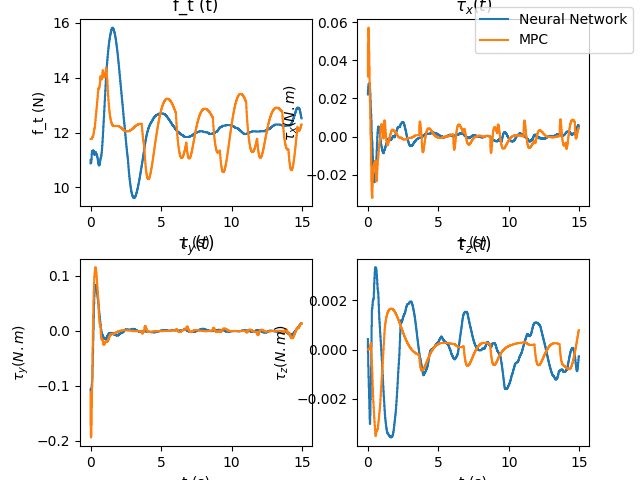
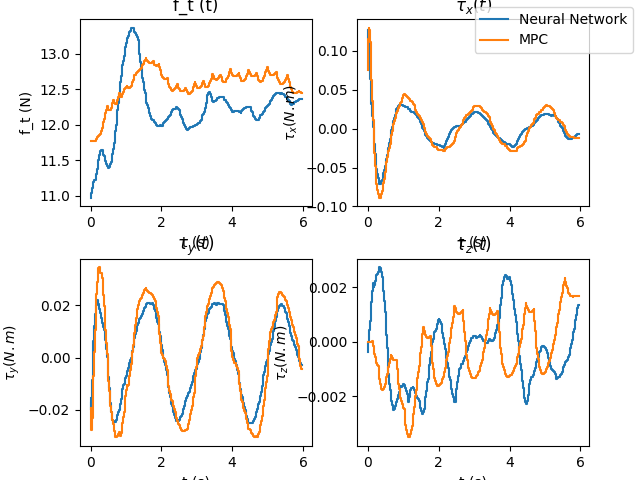
able to simulate batch of trajectories and also implemented stats tables and histogram plotting functions

diff --git a/6dof_quadrotor/simulate_both.py b/6dof_quadrotor/simulate_both.py
@@ -11,7 +11,7 @@ from simulate_mpc import simulate_mpc, wrap_metadata
 import time
 from pathlib import Path
 
-use_optuna_model = True
+#use_optuna_model = True
 
 ### MULTIROTOR PARAMETERS ###
 from parameters.octorotor_parameters import m, g, I_x, I_y, I_z, l, b, d, num_rotors, thrust_to_weight
@@ -27,17 +27,17 @@ num_neurons_hidden_layers = 128 # TODO: AUTOMATIZAR!!!!!!!!!!!!!!!!!!!!!!!!!!!!!
 from parameters.simulation_parameters import time_step, T_sample, N, M, gain_scheduling, include_phi_theta_reference, include_psi_reference
 q_neuralnetwork = 3 # Number of MPC outputs (x, y z)
 num_inputs = 205 - num_rotors # TODO: AUTOMATIZAR!!!!!!!!!!!!!!!!!!!!!!!!!!!!!!!!!!!!!!!!!!!!!!!!!!!!!!!!!!!!!!!!!!!!!
-T_simulation = 15 # Total simulation time
-t_samples = np.arange(0,T_simulation, T_sample)
-t_samples_extended = np.arange(0,2*T_simulation, T_sample)
+#T_simulation = 30 #Total simulation time
+#t_samples = np.arange(0,T_simulation, T_sample)
+#t_samples_extended = np.arange(0,2*T_simulation, T_sample)
 
 # Initial condition
 X0 = np.array([0,0,0,0,0,0,0,0,0,0,0,0])
 
 # Trajectory type
-trajectory_type = 'circle_xy'
-disturb_input = False
-use_optuna_model = True
+#trajectory_type = 'lissajous_xy'
+#disturb_input = False
+#use_optuna_model = True
 
 # Input and state values at the equilibrium condition
 #u_eq = [m*g, 0, 0, 0]
@@ -46,71 +46,80 @@ omega_squared_eq = omega_eq**2
 print('omega_squared_eq',omega_squared_eq)
 
 # Trajectory
-w=2*np.pi*1/10
+#w=2*np.pi*1/10
 tr = trajectory_handler.TrajectoryHandler()
 
-if trajectory_type == 'circle_xy':
-    r_tracking = tr.circle_xy(w, 5, T_simulation,include_psi_reference, include_phi_theta_reference)
+# if trajectory_type == 'circle_xy':
+#     r_tracking = tr.circle_xy(w, 5, T_simulation,include_psi_reference, include_phi_theta_reference)
 
-if trajectory_type == 'lissajous_xy':
-    r_tracking = tr.lissajous_xy(w, 2, T_simulation,include_psi_reference, include_phi_theta_reference)
+# if trajectory_type == 'lissajous_xy':
+#     r_tracking = tr.lissajous_xy(w, 2, T_simulation,include_psi_reference, include_phi_theta_reference)
 
-if trajectory_type == 'circle_xz':
-    r_tracking = tr.circle_xz(w, 5, T_simulation, include_psi_reference, include_phi_theta_reference)
+# if trajectory_type == 'circle_xz':
+#     r_tracking = tr.circle_xz(w, 5, T_simulation, include_psi_reference, include_phi_theta_reference)
 
-if trajectory_type == 'point':
-    r_tracking = tr.point(0, 0, 0, T_simulation,include_psi_reference, include_phi_theta_reference)
+# if trajectory_type == 'point':
+#     r_tracking = tr.point(0, 0, 0, T_simulation,include_psi_reference, include_phi_theta_reference)
 
-if trajectory_type == 'line':
-    r_tracking = tr.line(1, 1, -1, 20, T_simulation, include_psi_reference, include_phi_theta_reference)
+# if trajectory_type == 'line':
+#     r_tracking = tr.line(1, 1, -1, 20, T_simulation, include_psi_reference, include_phi_theta_reference)
 
-if trajectory_type == 'helicoidal':
-    r_tracking = tr.helicoidal(w,T_simulation, include_psi_reference, include_phi_theta_reference)
+#if trajectory_type == 'helicoidal':
+#    r_tracking = tr.helicoidal(w,T_simulation, include_psi_reference, include_phi_theta_reference)
 
-def simulate_mpc_nn(X0, multirotor_model, N, M, num_inputs, q_neuralnetwork, omega_squared_eq, dataset_id, dataset_mother_folder, weights_file_name, time_step, T_sample, T_simulation, trajectory, trajectory_type, restriction, restriction_metadata, output_weights, control_weights, \
+def simulate_mpc_nn(X0, multirotor_model, N, M, num_inputs, q_neuralnetwork, omega_squared_eq, dataset_mother_folder, weights_file_name, time_step, T_sample, T_simulation, trajectory, trajectory_type, restriction, restriction_metadata, output_weights, control_weights, \
                     gain_scheduling, disturb_input, num_neurons_hidden_layers, use_optuna_model):
-    #dataset_id = 1
-    #nn_weights_folder = 'training_results/Training dataset v0 - octorotor/'
-    #dataset_mother_folder = nn_weights_folder
-    #weights_file_name_mse = 'model_weights_octorotor.pth'
+    
+    global dataset_dataframe
+    global dataset_id
     t_samples = np.arange(0, T_simulation, T_sample)
     analyser = DataAnalyser()
     simulation_save_path = f'{dataset_mother_folder}comparative_simulations/{trajectory_type}/{str(dataset_id)}/'
 
     simulator = NeuralNetworkSimulator(multirotor_model, N, M, num_inputs, num_rotors, q_neuralnetwork, omega_squared_eq, time_step)
 
-    #nn_weights_folder_l1 = 'training_results/25-04-05 - Hover focused dataset N90 M10 - L1Loss/'
-    #weights_file_name_l1 = 'model_weights_L1Loss.pth'
-
     x_nn, u_nn, omega_nn, nn_metadata = simulator.simulate_neural_network(X0, dataset_mother_folder, weights_file_name, t_samples, trajectory, use_optuna_model=use_optuna_model,\
                                 num_neurons_hidden_layers=num_neurons_hidden_layers, restriction=restriction)
     
     _, mpc_metadata, simulation_data = simulate_mpc(X0, time_step, T_sample, T_simulation, trajectory, restriction, output_weights, control_weights, gain_scheduling,\
-                                disturb_input=disturb_input)
+                                disturb_input=disturb_input, plot=False)
     x_mpc, u_mpc, omega_mpc, _ = simulation_data if simulation_data is not None else [None, None, None, None]
 
-    simulation_metadata = wrap_metadata(0, trajectory_type, T_simulation, T_sample, N, M, True, mpc_metadata, restriction_metadata, disturbed_inputs=disturb_input)
+    simulation_metadata = wrap_metadata(dataset_id, trajectory_type, T_simulation, T_sample, N, M, True, mpc_metadata, restriction_metadata, disturbed_inputs=disturb_input)
     if x_nn is not None and x_mpc is not None:
         Path(simulation_save_path).mkdir(parents=True, exist_ok=True)
         for nn_key in list(nn_metadata.keys()):
             if nn_key not in list(simulation_metadata.keys()):
                 simulation_metadata[nn_key] = nn_metadata[nn_key]
-        dataset_dataframe = pd.DataFrame(simulation_metadata)
-        dataset_dataframe.to_csv(dataset_mother_folder + 'dataset_metadata.csv', sep=',')
+        dataset_dataframe = pd.concat([dataset_dataframe, pd.DataFrame(simulation_metadata)])
+        if dataset_id % 5 == 0: dataset_dataframe.to_csv(dataset_mother_folder + 'dataset_metadata.csv', sep=',', index=False)
 
         legend = ['Neural Network', 'MPC', 'Trajectory'] if x_mpc is not None else ['Neural Network', 'Trajectory']
-        analyser.plot_states(x_nn, t_samples[:np.shape(x_nn)[0]], X_lin=x_mpc, trajectory=trajectory[:len(t_samples)], u_vector=[u_nn, u_mpc], omega_vector=[omega_nn, omega_mpc], legend=legend, equal_scales=True, save_path=simulation_save_path)
+        analyser.plot_states(x_nn, t_samples[:np.shape(x_nn)[0]], X_lin=x_mpc, trajectory=trajectory[:len(t_samples)], u_vector=[u_nn, u_mpc], omega_vector=[omega_nn, omega_mpc], legend=legend, equal_scales=True, save_path=simulation_save_path, plot=False)
+    
+    dataset_id += 1
         
-rst = restriction_handler.Restriction(multirotor_model, T_sample, N, M)
-restriction, output_weights, control_weights, restriction_metadata = rst.restriction('normal')
-
-simulator = NeuralNetworkSimulator(multirotor_model, N, M, num_inputs, num_rotors, q_neuralnetwork, omega_squared_eq, time_step)
 
 if __name__ == '__main__':
+    use_optuna_model = True
+    disturb_input = False
+    dataset_dataframe = pd.DataFrame({})
     dataset_id = 1
+    total_simulations = 0
     nn_weights_folder = 'training_results/Training dataset v0 - octorotor/'
     dataset_mother_folder = nn_weights_folder
     weights_file_name = 'model_weights_octorotor.pth'
     analyser = DataAnalyser()
+    rst = restriction_handler.Restriction(multirotor_model, T_sample, N, M)
+    restriction, output_weights, control_weights, restriction_metadata = rst.restriction('normal')
+    trajectory_type = 'circle_xy'
+    if trajectory_type == 'circle_xy':
+        trajectory_vector = tr.generate_circle_xy_trajectories()
+    simulator = NeuralNetworkSimulator(multirotor_model, N, M, num_inputs, num_rotors, q_neuralnetwork, omega_squared_eq, time_step)
 
-    simulate_mpc_nn(X0, multirotor_model, N, M, num_inputs, q_neuralnetwork, omega_squared_eq, dataset_id, dataset_mother_folder, weights_file_name, time_step, T_sample, T_simulation, r_tracking, trajectory_type, restriction, restriction_metadata, output_weights, control_weights, gain_scheduling, disturb_input, num_neurons_hidden_layers, use_optuna_model)
+    total_simulations += len(trajectory_vector)
+    for args in trajectory_vector:
+        trajectory = tr.generate_trajectory('circle_xy', args, include_psi_reference, include_phi_theta_reference)
+        T_simulation = args[-1]
+        print(f'{trajectory_type} Simulation {dataset_id}/{total_simulations}')
+        simulate_mpc_nn(X0, multirotor_model, N, M, num_inputs, q_neuralnetwork, omega_squared_eq, dataset_mother_folder, weights_file_name, time_step, T_sample, T_simulation, trajectory, trajectory_type, restriction, restriction_metadata, output_weights, control_weights, gain_scheduling, disturb_input, num_neurons_hidden_layers, use_optuna_model)

diff --git a/6dof_quadrotor/plots.py b/6dof_quadrotor/plots.py
@@ -3,12 +3,13 @@ import matplotlib.lines as mlines
 import numpy as np
 import os
 import pandas as pd
+import seaborn as sns
 
 class DataAnalyser(object):
     def __init__(self):
         self.dataset = None
 
-    def plot_states(self, X,t, X_lin = None, trajectory = None, u_vector = None, omega_vector = None, equal_scales=False, legend = [], save_path = None):
+    def plot_states(self, X,t, X_lin = None, trajectory = None, u_vector = None, omega_vector = None, equal_scales=False, legend = [], save_path = None, plot = True):
         handles = []
         
         # Rotation
@@ -147,7 +148,7 @@ class DataAnalyser(object):
 
         if trajectory is not None: legend = legend[:-1]
         self.plot_inputs(u_vector, t, legend, omega_vector, save_path)
-        if save_path is None: plt.show()
+        if plot: plt.show()
         plt.close('all')
 
     def plot_inputs(self, u_vector, t, legend, omega_vector = None, save_path=None):
@@ -274,9 +275,93 @@ class DataAnalyser(object):
                     self.dataset = df if self.dataset is None else pd.concat([self.dataset, df])
         self.dataset.to_csv(mother_folder_path, sep='csv', index=False)
                 
-    def plot_rmse_histogram(self, mother_folder_path):
-        pass#if self.dataset is None: self.dataset = self.load_datasets(mother_folder_path)
+    def plot_rmse_histogram(self, dataset_path):
 
+        df = pd.read_csv(dataset_path + 'dataset_metadata.csv', sep=',')
+        min_value = np.min([np.min(df['mpc_RMSe']), np.min(df['nn_RMSe'])])
+        max_value = np.max([np.max(df['mpc_RMSe']), np.max(df['nn_RMSe'])])
+        bins = np.linspace(min_value, max_value, 30)
+
+        plt.figure(figsize=(8,5))
+        sns.histplot(df['mpc_RMSe'], bins=bins, color='royalblue', label='MPC', kde=True, stat='density', alpha=0.6)
+        sns.histplot(df['nn_RMSe'], bins=bins, color='darkorange', label='Neural Network', kde=True, stat='density', alpha=0.6)
+        plt.axvline(np.mean(df['mpc_RMSe']), color='royalblue', linestyle='--', linewidth=2)
+        plt.axvline(np.mean(df['nn_RMSe']), color='darkorange', linestyle='--', linewidth=2)
+        plt.xlabel('RMSE (m)', fontsize=12)
+        plt.ylabel('Density', fontsize=12)
+        plt.title('Comparison of RMSE Distributions of MPC and Neural Network', fontsize=14)
+        plt.legend(fontsize=12)
+        plt.grid(True, linestyle='--', alpha=0.5)
+        plt.tight_layout()
+        plt.show()
+
+    def plot_histogram(self, dataset_path, column_1, column_2, x_label, title, legend, normalization_column = None, colors=['royalblue','darkorange']):
+
+        df = pd.read_csv(dataset_path + 'dataset_metadata.csv', sep=',')
+        data_1 = df[column_1]
+        data_2 = df[column_2]
+        
+        if normalization_column is not None:
+            if isinstance(normalization_column, str):
+                data_1 = data_1 / df[normalization_column]
+                data_2 = data_2 / df[normalization_column]
+            if isinstance(normalization_column, list) or isinstance(normalization_column, np.ndarray):
+                for column in normalization_column:
+                    data_1 = data_1 / df[column]
+                    data_2 = data_2 / df[column]
+
+        min_value = np.min([np.min(data_1), np.min(data_2)])
+        max_value = np.max([np.max(data_1), np.max(data_2)])
+        bins = np.linspace(min_value, max_value, 30)
+
+
+        plt.figure(figsize=(8,5))
+        sns.histplot(data_1, bins=bins, color=colors[0], label=legend[0], kde=True, stat='density', alpha=0.6)
+        sns.histplot(data_2, bins=bins, color=colors[1], label=legend[1], kde=True, stat='density', alpha=0.6)
+        plt.axvline(np.mean(data_1), color=colors[0], linestyle='--', linewidth=2)
+        plt.axvline(np.mean(data_2), color=colors[1], linestyle='--', linewidth=1.5)
+        if 'execution_time' in column_1 and 'num_iterations' in normalization_column:
+            from parameters.simulation_parameters import T_sample
+            plt.axvline(T_sample, color='black', linestyle='--', linewidth=2)
+            x_min, x_max = plt.xlim()
+            plt.text(T_sample + 0.01*(x_max - x_min), plt.ylim()[1]*0.9, 'Time sample', rotation=90,va='top', ha='left', color='black')
+        plt.xlabel(x_label, fontsize=12)
+        plt.ylabel('Density', fontsize=12)
+        plt.title(title, fontsize=14)
+        plt.legend(fontsize=12)
+        plt.grid(True, linestyle='--', alpha=0.5)
+        plt.tight_layout()
+        plt.show()
+    
+    def stats_simulations(self, dataset_path, mpc_column, nn_column):
+        df = pd.read_csv(dataset_path + 'dataset_metadata.csv', sep=',')
+        
+        if mpc_column == 'mpc_execution_time_per_iteration' and nn_column == 'nn_execution_time_per_iteration':
+            data_mpc = df['mpc_execution_time (s)'] / df['num_iterations']
+            data_nn = df['nn_execution_time'] / df['num_iterations']
+
+        else:
+            data_mpc = df[mpc_column]
+            data_nn = df[nn_column]
+
+        mean_mpc = data_mpc.mean()
+        std_mpc = data_mpc.std()
+        max_mpc = data_mpc.max()
+        min_mpc = data_mpc.min()
+
+        mean_nn = data_nn.mean()
+        std_nn = data_nn.std()
+        max_nn = data_nn.max()
+        min_nn = data_nn.min()
+
+        table = pd.DataFrame({
+            'Controller': ['MPC', 'Neural Network'],
+            'min': [min_mpc, min_nn],
+            'max': [max_mpc, max_nn],
+            'mean': [mean_mpc, mean_nn],
+            'std': [std_mpc, std_nn],
+        })
+        return table
         
     def RMSe(self, position, trajectory):
         '''position and trajectory dimesnions: (N_iterations, 3)'''
@@ -415,3 +500,18 @@ def quali_linear(X,t,X_lin):
 
     fig.legend(['Non-linear','Linear'])
     plt.show()
+
+if __name__ == '__main__':
+    c = DataAnalyser()
+    #c.plot_rmse_histogram('training_results\Training dataset v0 - octorotor/')
+    c.plot_histogram('training_results\Training dataset v0 - octorotor/', 'mpc_RMSe', 'nn_RMSe', 'RMSE (m)','Comparison of RMSE Distributions of MPC and Neural Network', ['MPC', 'Neural Network'])
+    #c.plot_histogram('training_results\Training dataset v0 - octorotor/', 'mpc_execution_time (s)', 'nn_execution_time', '$t_{execution}/t_{simulation}$', 'Comparison of Execution Time Distributions', ['MPC', 'Neural Network'], normalization_column='simulation_time (s)')
+
+    c.plot_histogram('training_results\Training dataset v0 - octorotor/', 'mpc_execution_time (s)', 'nn_execution_time', '$t_{execution}/iteration$', 'Comparison of Execution Time Distributions', ['MPC', 'Neural Network'], normalization_column='num_iterations')
+    #c.plot_histogram('training_results\Training dataset v0 - octorotor/', 'mpc_execution_time (s)', 'nn_execution_time', 'CPU Use Percentage', 'Comparison of CPU Use Percentage', ['MPC', 'Neural Network'], normalization_column=['time_sample (s)', 'num_iterations'])
+
+    stats_rmse = c.stats_simulations('training_results\Training dataset v0 - octorotor/', 'mpc_RMSe', 'nn_RMSe')
+    print(stats_rmse)
+
+    stats_execution_time = c.stats_simulations('training_results\Training dataset v0 - octorotor/', 'mpc_execution_time_per_iteration', 'nn_execution_time_per_iteration')
+    print(stats_execution_time)

diff --git a/6dof_quadrotor/simulate_mpc.py b/6dof_quadrotor/simulate_mpc.py
@@ -85,7 +85,7 @@ dataset_dataframe = pd.DataFrame(simulation_metadata)
 # MPC Implementation
 
 def simulate_mpc(X0, time_step, T_sample, T_simulation, trajectory, restrictions, output_weights, control_weights,\
-                  gain_scheduling, dataset_name=None, folder_name=None, disturb_input=False):
+                  gain_scheduling, dataset_name=None, folder_name=None, disturb_input=False, plot=True):
     '''
     Executes a control simulation with MPC given the time step, time sample, total simulation time and the desired trajectory.\n
     dataset_name: name of dataset folder the current simulation will belong to\n
@@ -127,7 +127,7 @@ def simulate_mpc(X0, time_step, T_sample, T_simulation, trajectory, restrictions
             Path(save_path).mkdir(parents=True, exist_ok=True)
             #np.savetxt(save_path + "dataset.csv", NN_dataset, delimiter=",")
             np.save(save_path + 'dataset.npy', NN_dataset.astype(np.float32))
-        analyser.plot_states(x_mpc_rotors, t_samples[:np.shape(x_mpc_rotors)[0]], trajectory=trajectory, u_vector=u_rotors, omega_vector=omega_vector, equal_scales=True, legend=['MPC', 'Trajectory'], save_path=save_path)
+        analyser.plot_states(x_mpc_rotors, t_samples[:np.shape(x_mpc_rotors)[0]], trajectory=trajectory, u_vector=u_rotors, omega_vector=omega_vector, equal_scales=True, legend=['MPC', 'Trajectory'], save_path=save_path, plot=plot)
         return True, metadata, simulation_data
     return False, None, None
 

diff --git a/6dof_quadrotor/neural_network.py b/6dof_quadrotor/neural_network.py
@@ -370,7 +370,7 @@ class NeuralNetworkSimulator(object):
 
         metadata = {
             'num_iterations': len(t_samples)-1,    
-            'nn_execution_time': execution_time,
+            'nn_execution_time (s)': execution_time,
             'nn_RMSe': RMSe,
             'nn_min_phi': min_phi,
             'nn_max_phi': max_phi,
